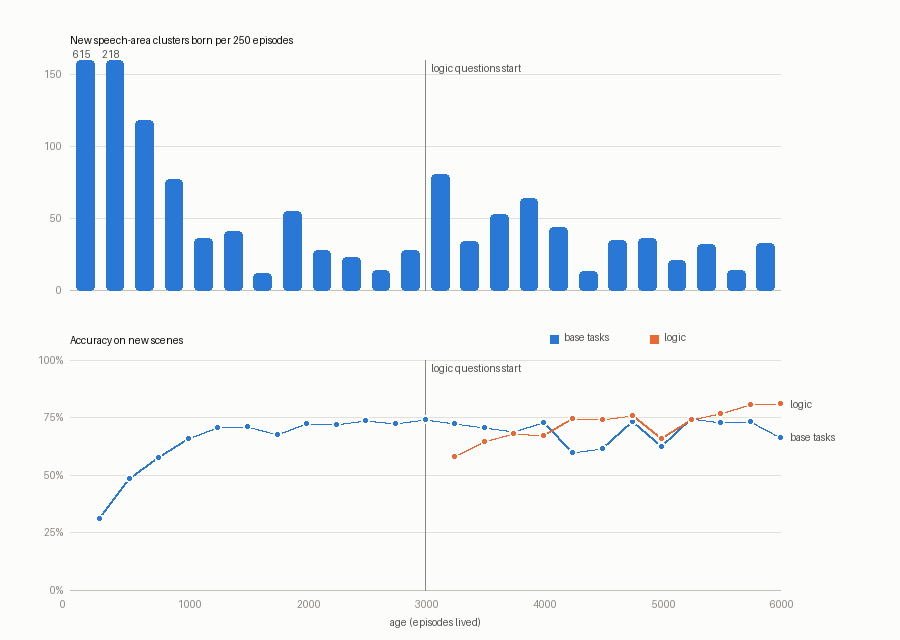
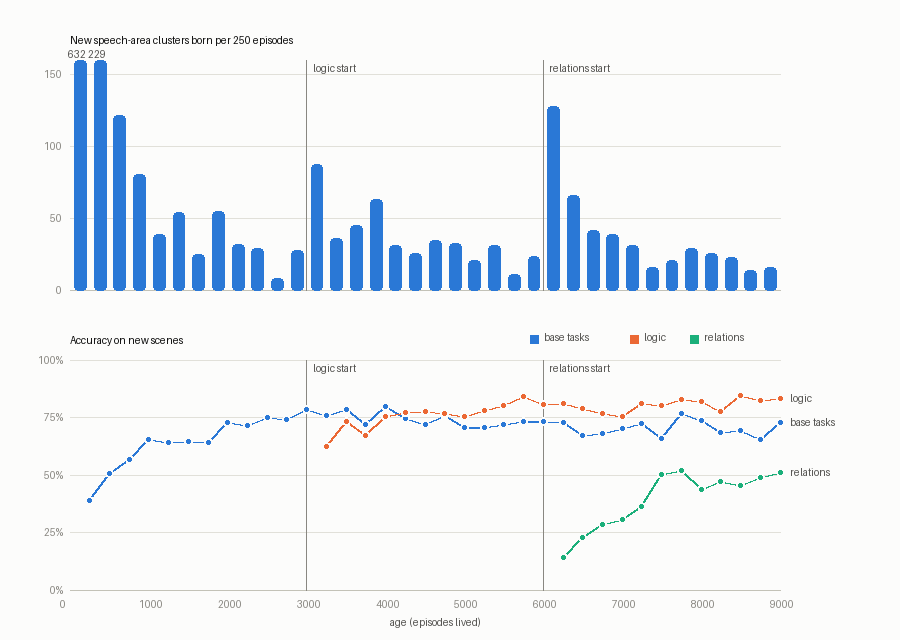
Three-phase curriculum results: growth bursts per new task, relations, sprouting findings
- chart now shows base -> logic -> relations with a neurogenesis burst at each new task
- README: v4 results table (2 seeds), what did not work (sprouting v1, stable
  sprouting neutral, category hearing, fatigue), updated open questions

Claude-Session: https://claude.ai/code/session_01G9bW4HVzX4fhrDVZRTMrFU

diff --git a/experiments/plot_curriculum.py b/experiments/plot_curriculum.py
@@ -9,12 +9,16 @@ import sys
 from PIL import Image, ImageDraw
 
 SURFACE, INK, INK2, MUTED, GRID, AXIS = "#fcfcfb", "#0b0b0b", "#52514e", "#898781", "#e1e0d9", "#c3c2b7"
-BLUE, ORANGE = "#2a78d6", "#eb6834"
+BLUE, ORANGE, AQUA = "#2a78d6", "#eb6834", "#1baf7a"
 
 recs = [json.loads(line) for line in open(sys.argv[1])]
 out = sys.argv[2] if len(sys.argv) > 2 else "out/curriculum.png"
-onset = next((r["age"] for r in recs if r["phase"] != "base"), None)
-onset = onset - 250 if onset else None
+phases = []
+for r in recs:
+    if not phases or phases[-1][1] != r["phase"]:
+        phases.append((r["age"] - 250, r["phase"]))
+onset = phases[1][0] if len(phases) > 1 else None
+starts = [(a, p.split("+")[-1]) for a, p in phases[1:]]
 
 W, H = 900, 640
 L, R = 70, 120
@@ -37,11 +41,12 @@ def panel(top, bottom, title, series, ymax, yfmt, yticks):
         d.line([(L, Y(t)), (W - R, Y(t))], fill=GRID, width=1)
         d.text((L - 8 - 6 * len(yfmt(t)), Y(t) - 6), yfmt(t), fill=MUTED)
     d.line([(L, bottom), (W - R, bottom)], fill=AXIS, width=1)
-    if onset:
-        d.line([(X(onset), top), (X(onset), bottom)], fill=MUTED, width=1)
-        d.text((X(onset) + 6, top + 2), "logic questions start", fill=INK2)
+    for a, name in starts:
+        d.line([(X(a), top), (X(a), bottom)], fill=MUTED, width=1)
+        d.text((X(a) + 6, top + 2), f"{name} start", fill=INK2)
     for label, key, color in series:
-        rows = [r for r in recs if key != "logic_acc" or r["phase"] != "base"]
+        task = {"logic_acc": "logic", "relation_acc": "relations"}.get(key)
+        rows = [r for r in recs if task is None or task in r["phase"]]
         pts = [(X(r["age"]), Y(r[key])) for r in rows]
         d.line(pts, fill=color, width=2, joint="curve")
         for p in pts:
@@ -66,18 +71,22 @@ for r in recs:
     d.rounded_rectangle([xc - bw / 2, bottom - v / cap * (bottom - top), xc + bw / 2, bottom], radius=4, fill=color)
     if r["new_clusters"] > cap:
         d.text((xc - 12, top - 12), str(r["new_clusters"]), fill=INK2)
-if onset:
-    d.line([(X(onset), top), (X(onset), bottom)], fill=MUTED, width=1)
-    d.text((X(onset) + 6, top + 2), "logic questions start", fill=INK2)
-panel(360, 590, "Accuracy on new scenes", [("base tasks", "base_acc", BLUE), ("logic", "logic_acc", ORANGE)],
+for a, name in starts:
+    d.line([(X(a), top), (X(a), bottom)], fill=MUTED, width=1)
+    d.text((X(a) + 6, top + 2), f"{name} start", fill=INK2)
+panel(360, 590, "Accuracy on new scenes", [("base tasks", "base_acc", BLUE), ("logic", "logic_acc", ORANGE)]
+      + ([("relations", "relation_acc", AQUA)] if "relation_acc" in recs[0] else []),
       1.0, lambda v: f"{v:.0%}", [0, 0.25, 0.5, 0.75, 1.0])
 for a in range(0, x1 + 1, 1000):
     d.text((X(a) - 10, 598), f"{a}", fill=MUTED)
 d.text((W // 2 - 60, 616), "age (episodes lived)", fill=INK2)
 # legend for the two-series panel
-d.rectangle([W - R - 230, 335, W - R - 222, 343], fill=BLUE)
-d.text((W - R - 216, 331), "base tasks", fill=INK2)
-d.rectangle([W - R - 130, 335, W - R - 122, 343], fill=ORANGE)
-d.text((W - R - 116, 331), "logic", fill=INK2)
+d.rectangle([W - R - 250, 335, W - R - 242, 343], fill=BLUE)
+d.text((W - R - 236, 331), "base tasks", fill=INK2)
+d.rectangle([W - R - 150, 335, W - R - 142, 343], fill=ORANGE)
+d.text((W - R - 136, 331), "logic", fill=INK2)
+if "relation_acc" in recs[0]:
+    d.rectangle([W - R - 90, 335, W - R - 82, 343], fill=AQUA)
+    d.text((W - R - 76, 331), "relations", fill=INK2)
 img.save(out)
 print("saved", out)

diff --git a/README.md b/README.md
@@ -35,7 +35,7 @@ organize themselves, and to watch what emerges.
 | **Match / mismatch neurons** | count heard units that vision supports / that are grounded but absent. They know nothing about *and*, *or*, *not* | prediction-error neurons, coincidence detection |
 | **Speech area** (`organic/cortex.py`) | imitates answers unit by unit. Problem affinity = stimulus affinity × whether the cluster's outputs lean to the heard unit. No affinity → **neurogenesis**; a familiar context widens its expectations; only clusters with affinity learn (instar/outstar), scaled by a global surprise signal; plasticity falls with use | the original idea of this repo, ART match tracking, neuromodulated three-factor plasticity, synaptic consolidation |
 | **Emergent categories** | word-forms that compete for the same slot become associated, and activation spreads among them, so *colors*, *shapes*, *places*, *yes/no* form without labels; one's own words echo with a hint of their category | distributional learning in children |
-| **Attention** | in a multi-object scene, attention leaves an object once it has been named (inhibition of return). While listening, it jumps to the object a heard word is about (joint attention) | IOR, infant joint attention |
+| **Attention** | in a multi-object scene, attention leaves an object once it has been named (inhibition of return). While listening, it jumps to the object a heard word is about (joint attention). Before answering, heard words bias the competition between objects (visual search) | IOR, infant joint attention, biased competition (Desimone & Duncan 1995) |
 | **Fatigue** | word-forms that just fired are suppressed for a moment, so speech doesn't loop | neural adaptation |
 | **Hippocampus & sleep** (`organic/hippocampus.py`) | stores episodes; in sleep it replays them, merges duplicate clusters and lets unused ones die | complementary learning systems, consolidation, apoptosis |
 
@@ -51,6 +51,7 @@ question and what a person would answer:
 - *is it a star?*, *is it blue?* → *no, it is a circle*
 - *how many shapes are there?* → *there are three shapes*
 - logic: *am i red?*, *is it red and big?*, *is it big and small?*, *is it either red or blue?*, *is it not red?* → *yes* / *no*
+- relations (two objects): *which one is bigger / smaller / on the left / on the right?* → *the red one*
 
 Tests use new images, **color+shape pairs never seen in life** (green
 triangle, blue star, purple face, white circle), and **phrasings never heard**.
@@ -63,6 +64,7 @@ python -m venv .venv && .venv/bin/pip install -r requirements.txt
 .venv/bin/python examples/ask.py                  # ask it your own questions
 .venv/bin/python experiments/curriculum.py        # add logic mid-life, watch the structure grow
 .venv/bin/python examples/demo.py                 # stage 1: the first, flat organism
+.venv/bin/pip install pytest && .venv/bin/python -m pytest   # invariants
 ```
 
 `experiments/` also has the probes used while developing the theory:
@@ -108,16 +110,25 @@ white cross and a white cross…"), because the ear fused " and " onto shape
 names, so the brain loses track of what it has already named. Yes/no about
 shape (0.55) is weak.
 
-**The structure grows to meet a new kind of problem** (`experiments/curriculum.py`).
+**The structure grows to meet each new kind of problem** (`experiments/curriculum.py`).
 The brain lives 3000 moments with base tasks only, then logic questions start
-to appear:
+to appear, and at 6000 relation questions ("which one is smaller?") join in:
 
 ![curriculum](docs/curriculum.png)
 
-Neurogenesis had settled to ~10–30 clusters per 250 moments. When logic
-arrives it jumps (+81) and stays higher for a while, the ear forms new units
-(543 → 696 word-forms), and logic accuracy climbs from chance to ~0.8 while
-the base tasks are kept.
+Neurogenesis settles to ~20 clusters per 250 moments, and each new task sets off
+its own burst (+87 for logic, +128 for relations) before it settles again. Earlier
+tasks are kept. Final numbers, two seeds each, at age 9000:
+
+| | base | logic | relations | smaller | left | right | bigger |
+|---|---|---|---|---|---|---|---|
+| attention with fixed threshold | 0.75 | 0.80 | 0.37 | ~0.10 | ~0.38 | ~0.30 | ~0.66 |
+| biased-competition attention + resonant binding | 0.74 | 0.86 | 0.49 | 0.36 | 0.54 | 0.44 | 0.61 |
+| + stable sprouting | 0.75 | 0.83 | 0.50 | 0.36 | 0.54 | 0.38 | 0.69 |
+
+Relations are still about a coin flip between the two objects. Heard words now do
+move the eye ("smaller" used to be 0.1 because the eye never left the biggest
+object), but not reliably to the right one.
 
 **…and logic is answered from what is seen, not from word statistics**
 (`experiments/logic_ablation.py`):
@@ -132,20 +143,38 @@ Nothing tells the brain what *not* means. Its speech area grew clusters that
 tie the sound of the question to the pattern of match/mismatch neurons,
 and *not* collapses to chance without them.
 
+## Things that did not work (kept as options, off by default)
+
+- **Sprouting new areas, first version** (`Brain(sprouting=True)`): when surprise
+  plateaus, grow an area of random sparse expansion (cerebellar granule /
+  mushroom-body style) whose assemblies keep growing by novelty. Those
+  assemblies never stabilize, so everything downstream keeps looking new: the
+  speech area grew ~5000 clusters instead of ~2000, and base fell from 0.75 to 0.62
+  and logic from 0.80 to 0.60, on both seeds.
+- **Stable sprouting** (`stable_sprouts=True`): a fixed expansion that starts
+  half-myelinated, then myelinates only when surprise drops below its running
+  average (dopamine-like). Harmless, matching the control on every task, but the
+  signal never judged the new areas useful (myelin 0.30 → 0.30–0.43).
+- **Hearing words with their category** (`hear_categories=True`): phrasing
+  transfer 0.31 vs 0.32, no effect.
+- **Slower word fatigue**: no effect on loops; they came from units fused with
+  " and ", not from fatigue.
+
 ## Open questions / next directions
 
+- **Relations:** attention moves but lands on the right object only about half the time.
+  "smaller"/"left" are weakly grounded because 60% of objects are small and
+  the ear tends to hear "it is small" as one unit.
 - **Fused units:** the ear segments by predictability, not by meaning. "red star and a "
   can become one unit. Binding through shared auditory neurons helps; should
   segmentation also feel the pull of meaning (top-down)?
-- **Structure beyond clusters:** today growth happens inside fixed areas.
-  Could the brain sprout a new *area* (e.g. a logic/comparison area) when
-  one region keeps paying surprise despite neurogenesis?
-- **Phrasing transfer:** heard words could carry their emergent category, as
-  the brain's own words already do (`hear_categories`, under test).
+- **Useful new areas:** a sprouted area needs a credit signal more specific than a
+  global "things got better" to find a job.
+- **Phrasing transfer** stays low (~0.3): nothing represents what a question
+  *wants* apart from how it sounds.
 - **Time:** conduction delays only gate priming strength; spike timing and
   synchrony are not modeled yet.
-- **Speed:** everything is plain numpy and Python loops; a life of 6000 moments
-  takes about 30 minutes on one core.
+- **Speed:** plain numpy; a 9000-moment life with checkpoints takes ~35 min on one core.
 
 ## History
 
@@ -155,3 +184,5 @@ and *not* collapses to chance without them.
   priming, speech area, hippocampus, multimodal Q&A, word-level ear.
 - Stage 3: the ear hears raw bytes (BLT-style entropy segmentation), logic
   tasks, match/mismatch neurons, curriculum experiments.
+- Stage 4: relation tasks, biased-competition attention, binding through
+  shared auditory neurons, per-cluster input reach, area sprouting experiments.
